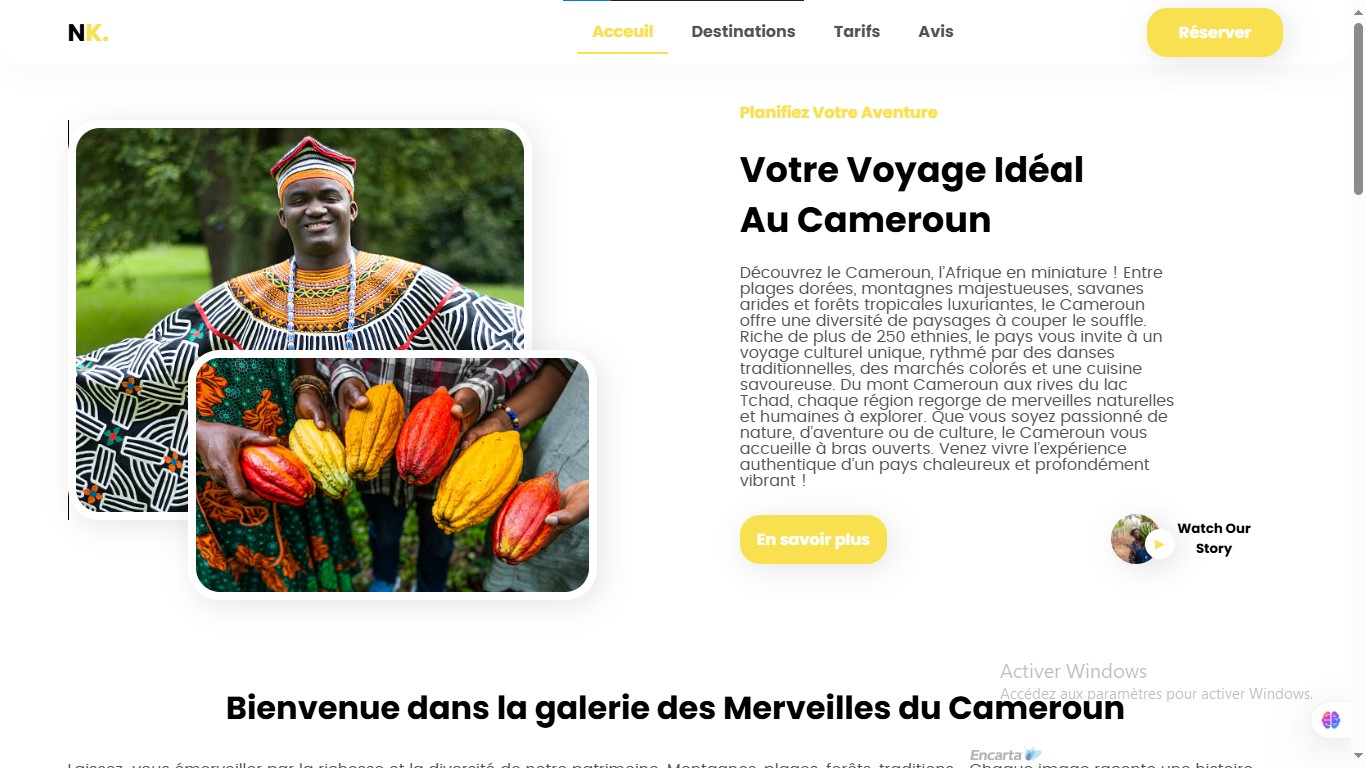
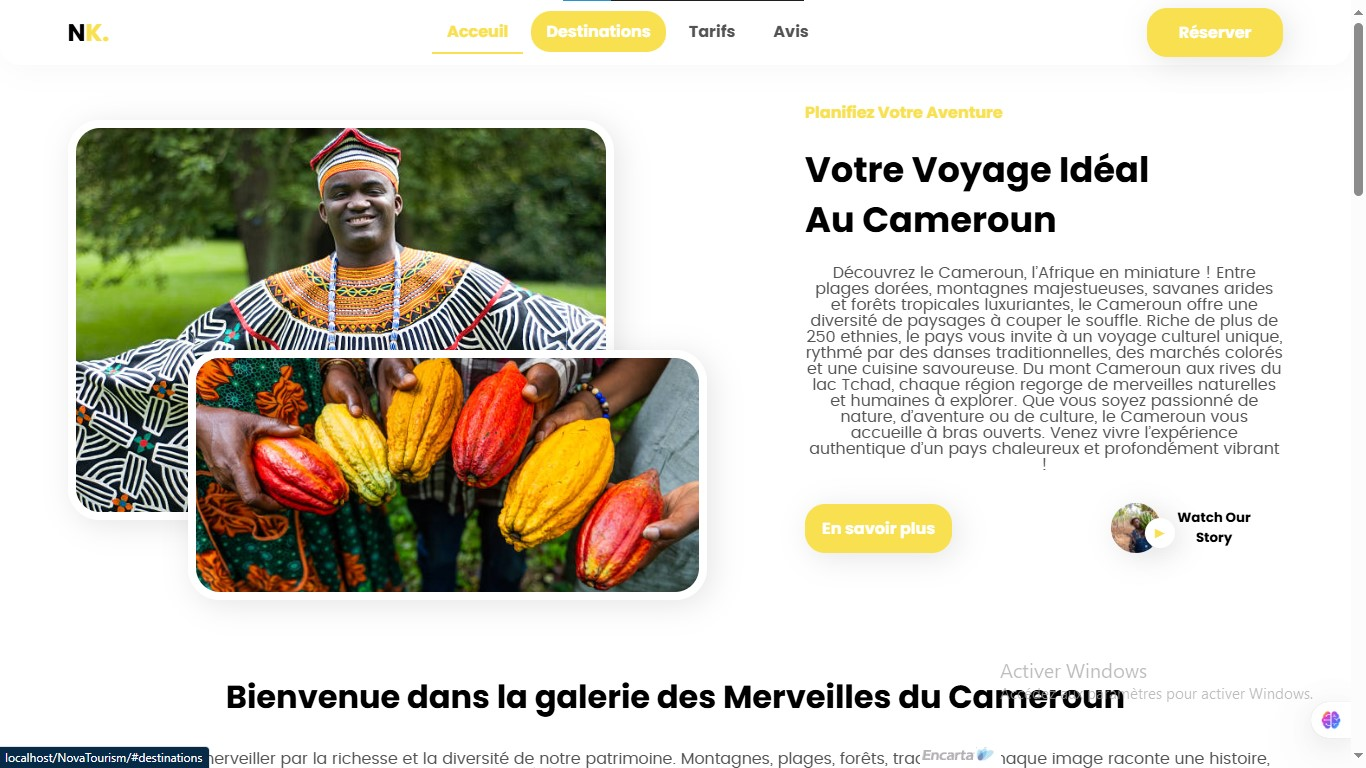
Modification du CSS

diff --git a/style.css b/style.css
@@ -469,6 +469,7 @@ button:active {
   background-color: var(--primaryColor);
   border-radius: 16px;
   box-shadow: var(--shadowDiv);
+  align-items: center;
 }
 
 .form-field {

diff --git a/brevo_mail.php b/brevo_mail.php
@@ -41,7 +41,7 @@ function envoyerConfirmation(string $email, string $nom, string $destination, st
     ];
 
     $ch = curl_init('https://api.brevo.com/v3/smtp/email');
-    $cacert = 'C:wamp64/cacert.pem';
+    $cacert = 'C:/wamp64/cacert.pem';
     if (file_exists($cacert)) {
         curl_setopt($ch, CURLOPT_CAINFO, $cacert);
     }
